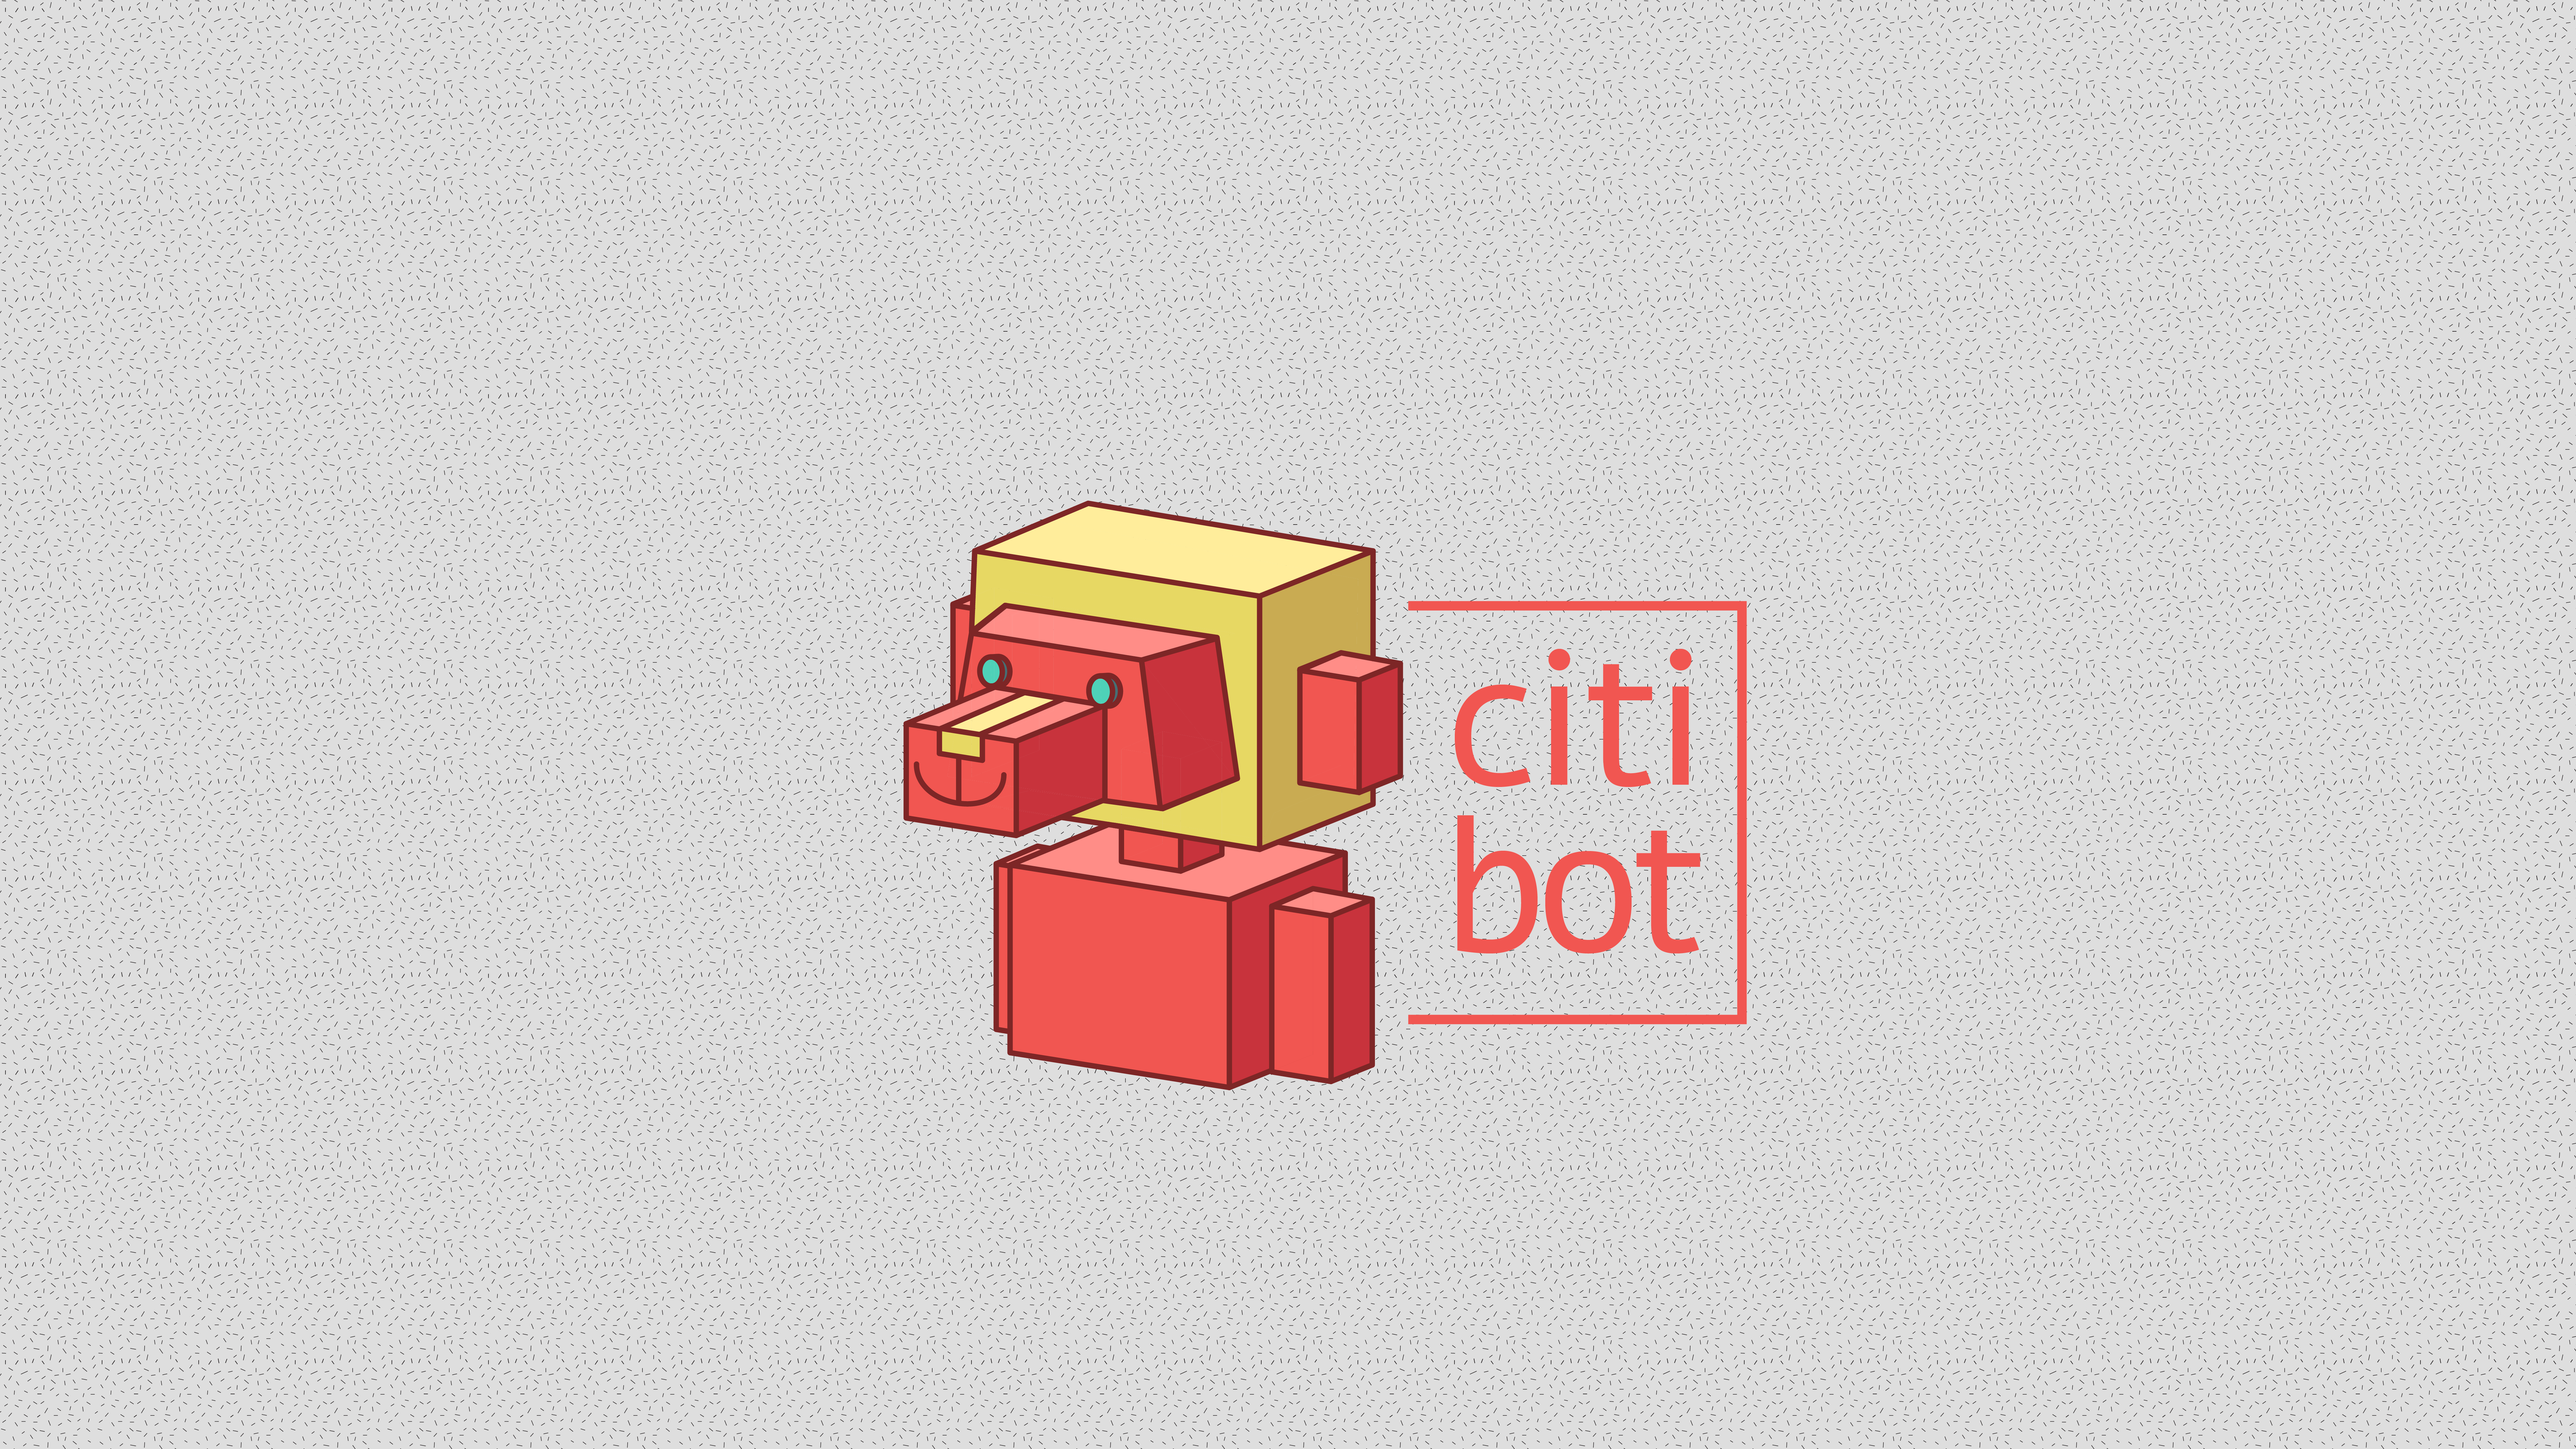
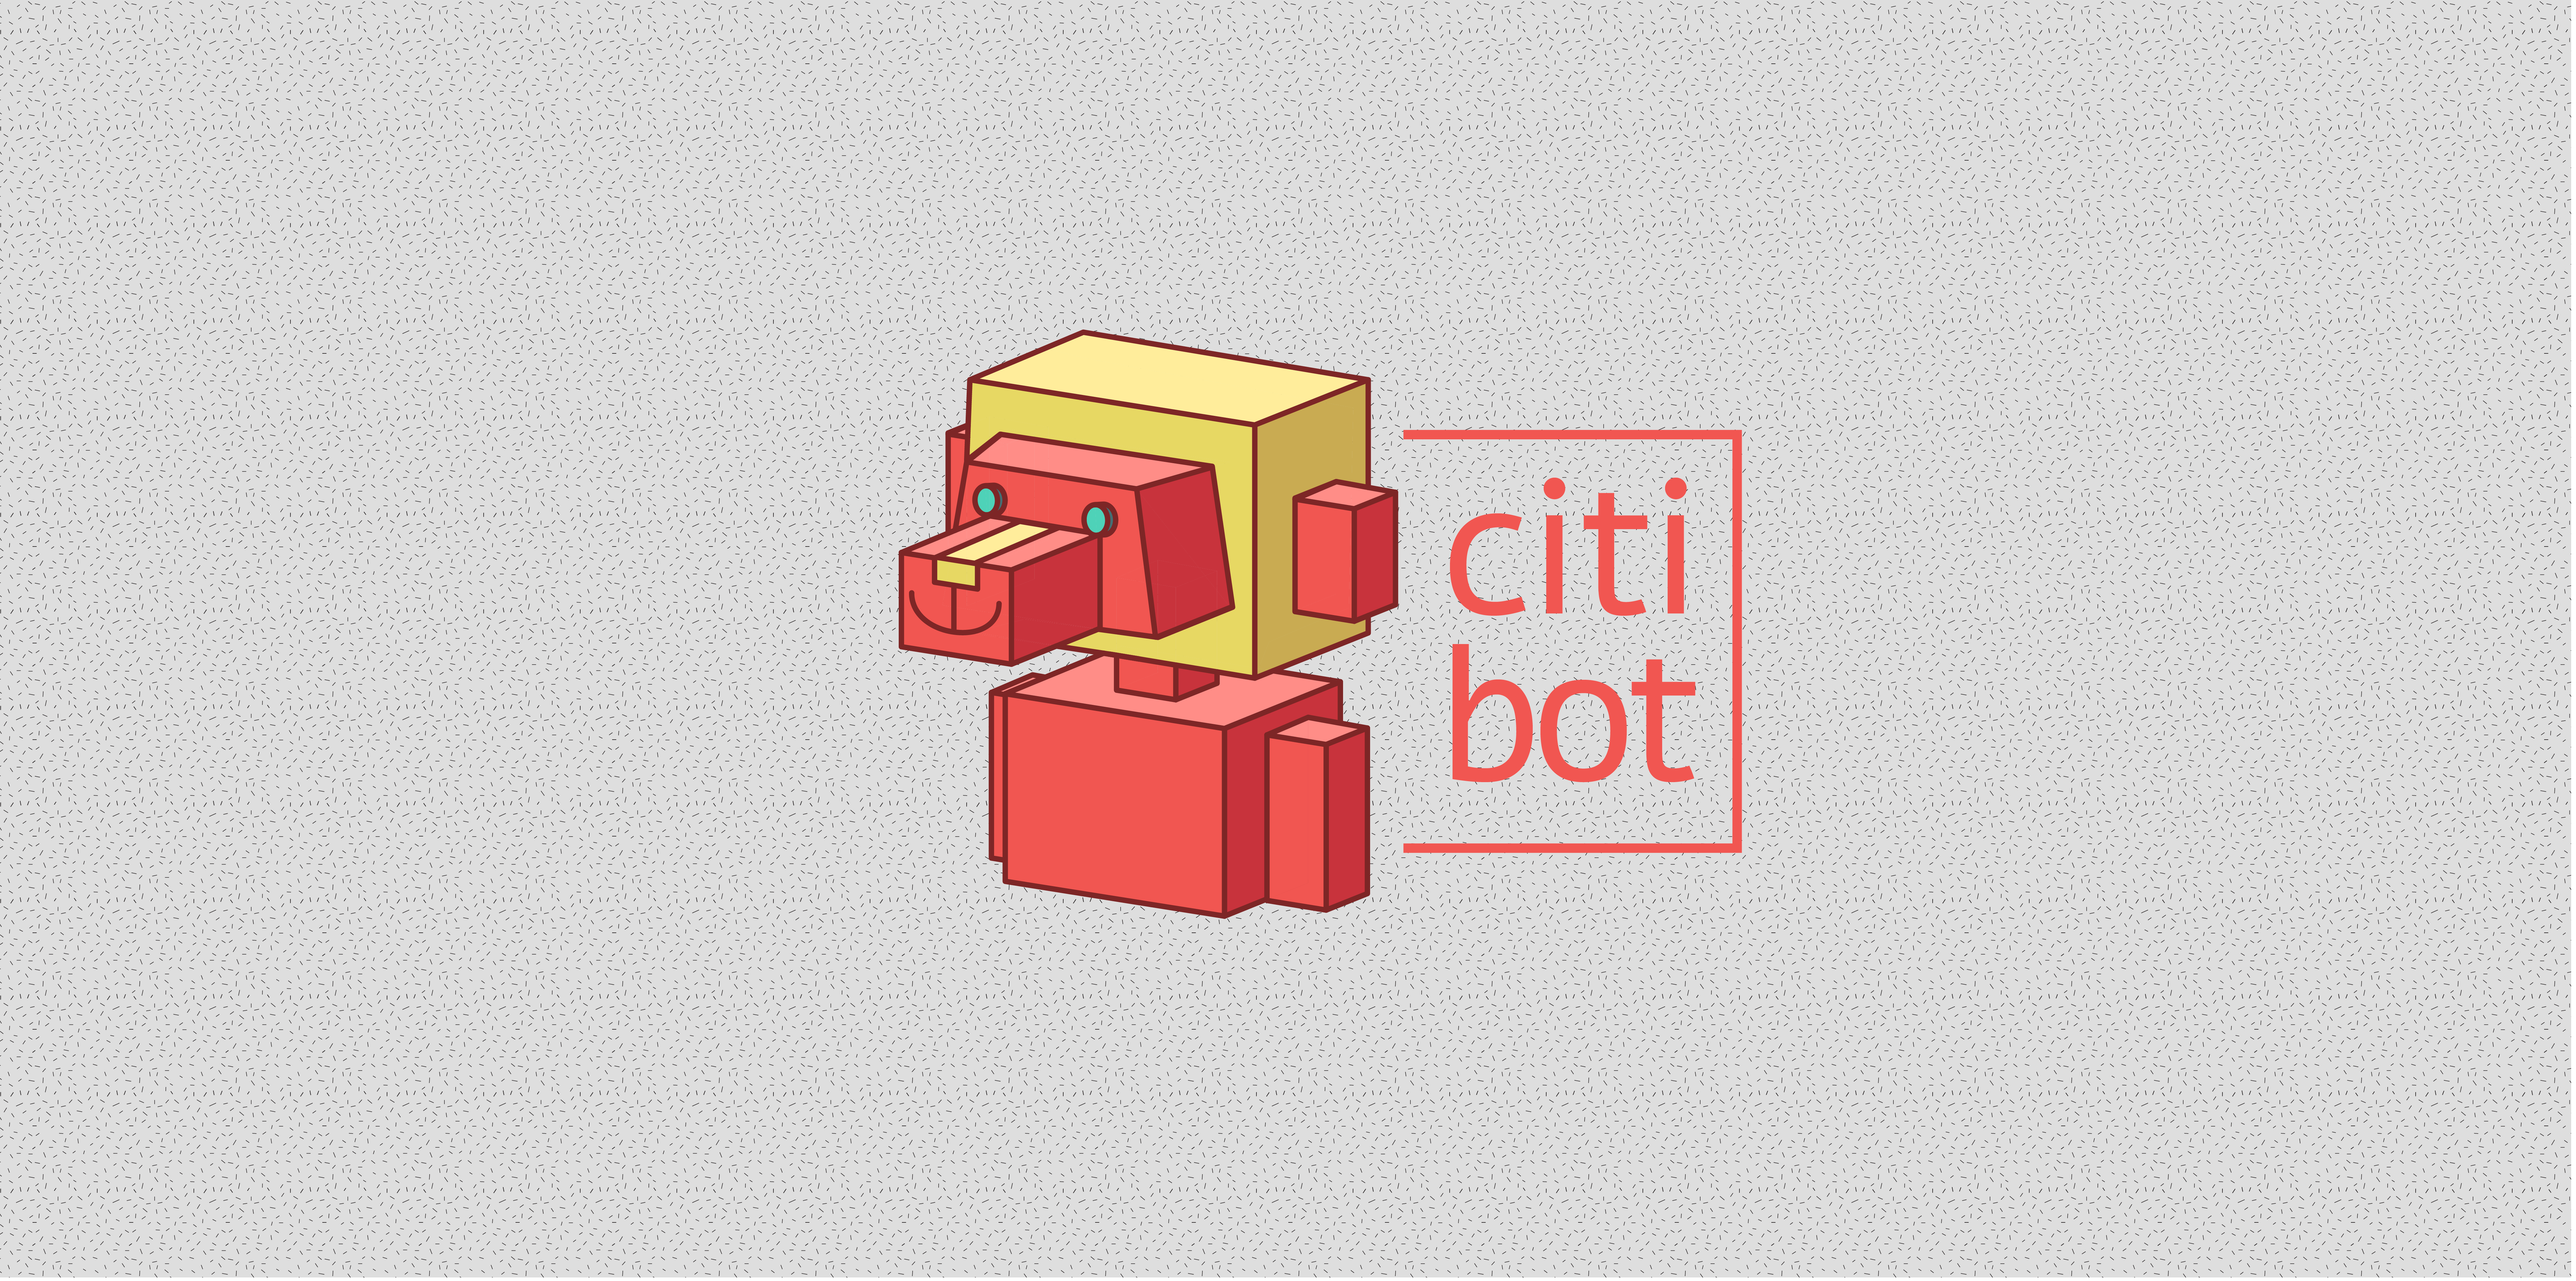
landing page added

Changed region(s): [[0.3438, 0.2492, 0.6875, 0.7789], [0.0, 0.0, 1.0, 1.0]]

diff --git a/imports/startup/client/routes.jsx b/imports/startup/client/routes.jsx
@@ -3,7 +3,7 @@ import React from 'react';
 import { Router, Route, browserHistory } from 'react-router';
 import App from '../../ui/pages/App.jsx';
 import {MessageBox} from '../../ui/components/messageBox.jsx'
-
+import landingPage from '../../ui/pages/landingPage.jsx'
 import OperatorBoard from '../../ui/pages/OperatorBoard.jsx';
 import OfflinePage from '../../ui/pages/OfflinePage.jsx';
 import MsgContainer from '../../ui/containers/msgContainer.jsx';
@@ -25,6 +25,7 @@ const MeravTal = (props)=>{
 export const renderRoutes = () => (
     <Router history={browserHistory}>
         <Route path="/" component={App}>
+            <Route path="/landingPage" component={landingPage}/>
             <Route path="/operator" component={OperatorBoard}/>
             <Route path="/offlineBoard" component={OfflinePage}/>
             <Route path="/adminBoard" component={AutomaticQuestionsContainer}/>

diff --git a/imports/ui/pages/landingPage.jsx b/imports/ui/pages/landingPage.jsx
@@ -1,0 +1,15 @@
+/**
+ * Created by jonathan on 20-May-16.
+ */
+
+import React from 'react';
+export default class landingPage extends React.Component {
+
+    render() {
+
+        return (
+            <div align="right">
+                <img src = "/img/citibot open-07-07.png" align="right" height="90%" width="100%" className="landImg"></img></div>
+        );
+    }
+}

diff --git a/client/yonCss.css b/client/yonCss.css
@@ -93,3 +93,11 @@
 }
 
 
+
+
+
+
+.landImg{
+    margin-bottom: 150px;
+}
+
